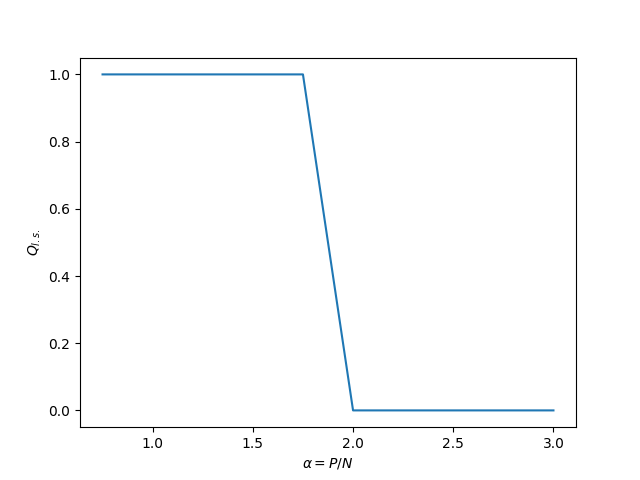
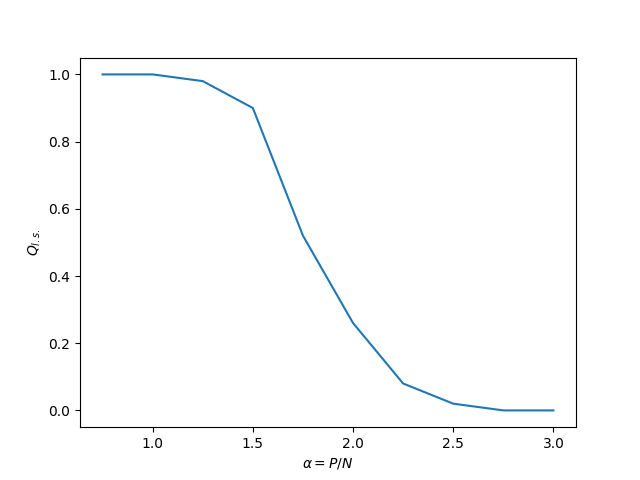
Fixed issues with datasets generation

diff --git a/Lab1/assignment1.py b/Lab1/assignment1.py
@@ -7,29 +7,31 @@ def experiment(N, n_max, nD, alpha):
     P = int(round(alpha*N))  # number of data points (rounded to closest int)
     mu, variance = 0, 1
     sigma = np.sqrt(variance)
-    xi_mu, S_mu = np.zeros([P, N]), np.zeros(P, int)  # TODO: should we add the threshold theta?
+    # xi_mu, S_mu = np.zeros([P, N]), np.zeros(P, int)  # TODO: should we add the threshold theta?
     
     data=[]
     # generate nD datasets
     for i in range(nD):
-        for i in range(P):
-            labels = np.random.binomial(1, 0.5, 1)  # number of trials, probability of each trial
-            # result of flipping a coin, tested N times.
-            labels[labels < 1] = -1
-            S_mu[i] = labels
-            xi_mu[i] = np.random.normal(mu, sigma, N)
-        data.append([xi_mu,S_mu])
+        labels = np.random.binomial(1, 0.5, (P, 1))  # number of trials, probability of each trial
+        # result of flipping a coin, tested N times.
+        labels[labels < 1] = -1
+        S_mu = labels
+        xi_mu = np.random.normal(mu, sigma, (P,N))
+        data.append([xi_mu, S_mu])
         
     success = perceptron(data, N, P, n_max)
     return success
 
 
 def perceptron(data, N, P, n_max):
-    
-    w = np.zeros(len(data[0][0][1]))  # initialize the weights as zero
+
+
     success=0
     # repeat training for several randomized datasets
     for i in range(nD):
+
+        w = np.zeros(len(data[0][0][1]))  # initialize the weights as zero
+
         X = data[i][0]
         Y = data[i][1]
 
@@ -42,7 +44,7 @@ def perceptron(data, N, P, n_max):
                 if E <= 0:
                     w = w + (1/N)*X[j]*Y[j]
                     done = False
-            if done:
+            if done == True:
                 success += 1
                 break
             
@@ -57,19 +59,16 @@ if __name__ == "__main__":
     nD = 50
     N = 20
 
-    #  As mentioned in assignment, set parameters as large as possible (within reason...)
-    n_max *= 5
-    nD *= 6
-    N *= 5
+    # np.random.seed(0)  # To make reproducible sets (if needed)
 
     # determine the value of the fraction of successful runs as a function of alpha=P/N
-    alpha=np.arange(0.75, 3.25, 0.25)
+    alpha = np.arange(0.75, 3.25, 0.25)
 
-    success_list=[]
+    success_list = []
     for a in alpha:
         success_list.append(experiment(N, n_max, nD, a))
 
-    norm_success = np.divide(success_list, nD)
+    norm_success = np.divide(np.array(success_list), nD)
 
     print('alpha: {}'.format(alpha))
     print('success_list: {}'.format(success_list))
